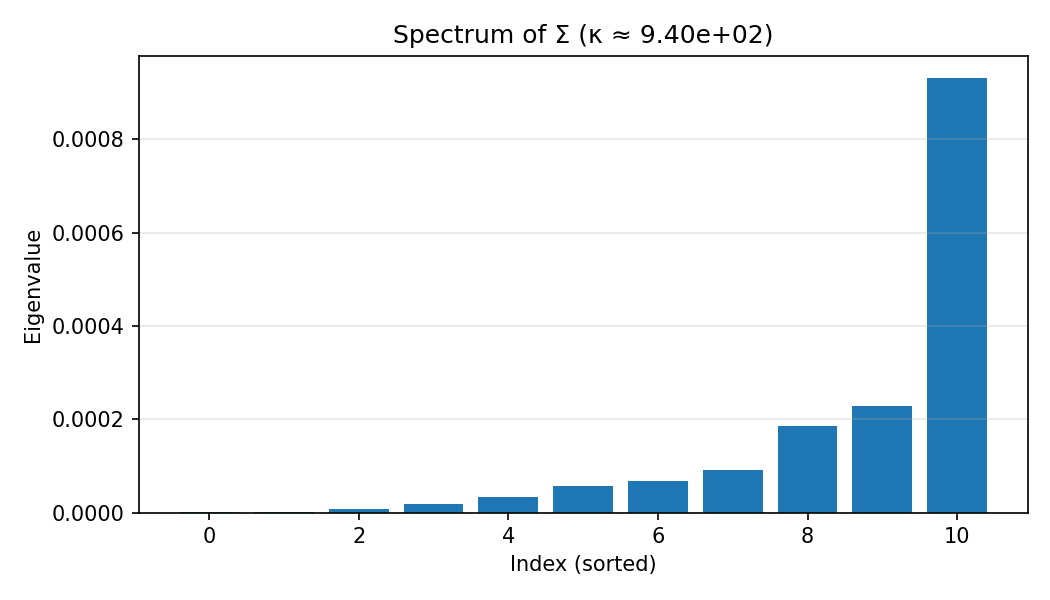
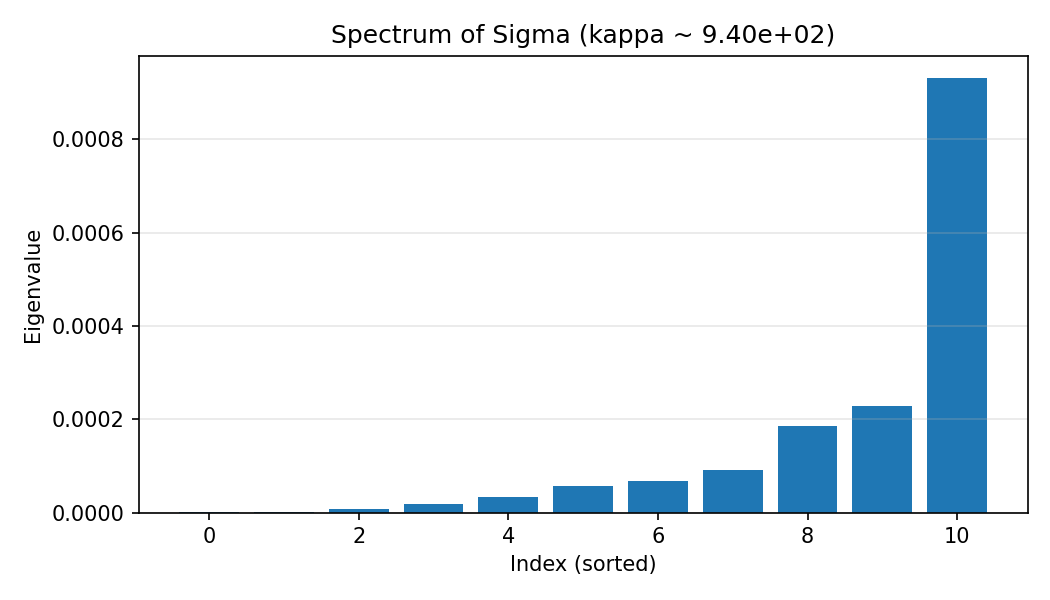
Improve application notebook and interpretation utilities.
Add interpret.py and summarize.py for asset and frontier tables. Rewrite
the notebook as a full Part 3 pipeline with inline figures. Refactor
plots to support display and file export.

Changed region(s): [[0.3048, 0.03, 0.7924, 0.09]]

diff --git a/python/src/portfolio_linalg/interpret.py b/python/src/portfolio_linalg/interpret.py
@@ -1,0 +1,104 @@
+"""Summaries for reports, CLI, and the application notebook."""
+
+from __future__ import annotations
+
+from dataclasses import dataclass
+
+import numpy as np
+import polars as pl
+
+from portfolio_linalg.config import ProjectConfig
+from portfolio_linalg.covariance import CovarianceResult
+from portfolio_linalg.frontier import compute_frontier, min_variance_portfolio
+
+
+@dataclass(frozen=True)
+class FrontierSummary:
+    mu_low: float
+    sigma_low: float
+    mu_high: float
+    sigma_high: float
+    best_mu: float
+    best_sigma: float
+    best_sharpe: float
+    high_return_weights: pl.DataFrame
+
+
+def asset_summary_table(cov: CovarianceResult) -> pl.DataFrame:
+    vol = np.sqrt(np.diag(cov.sigma))
+    sharpe = np.where(vol > 0, cov.mu / vol, np.nan)
+    return (
+        pl.DataFrame(
+            {
+                "ticker": cov.tickers,
+                "mu_daily": cov.mu,
+                "sigma_daily": vol,
+                "mu_over_sigma": sharpe,
+            }
+        )
+        .sort("mu_over_sigma", descending=True)
+    )
+
+
+def min_variance_weights_table(
+    cov: CovarianceResult, cfg: ProjectConfig, *, min_weight: float = 0.001
+) -> pl.DataFrame:
+    mvp = min_variance_portfolio(cov, cfg)
+    rows = [
+        {"ticker": t, "weight": float(w)}
+        for t, w in zip(cov.tickers, mvp["weights"], strict=True)
+        if w >= min_weight
+    ]
+    return pl.DataFrame(rows).sort("weight", descending=True)
+
+
+def frontier_summary_table(cov: CovarianceResult, frontier: pl.DataFrame) -> FrontierSummary:
+    pts = frontier.select(["mu", "sigma", "r_min_target"]).unique().sort("mu")
+    lo, hi = pts.row(0, named=True), pts.row(-1, named=True)
+    best = pts.with_columns((pl.col("mu") / pl.col("sigma")).alias("sh")).sort(
+        "sh", descending=True
+    ).row(0, named=True)
+    r_hi = hi["r_min_target"]
+    w_hi = (
+        frontier.filter(pl.col("r_min_target") == r_hi)
+        .select(["ticker", "weight"])
+        .filter(pl.col("weight") > 0.001)
+        .sort("weight", descending=True)
+    )
+    return FrontierSummary(
+        mu_low=float(lo["mu"]),
+        sigma_low=float(lo["sigma"]),
+        mu_high=float(hi["mu"]),
+        sigma_high=float(hi["sigma"]),
+        best_mu=float(best["mu"]),
+        best_sigma=float(best["sigma"]),
+        best_sharpe=float(best["sh"]),
+        high_return_weights=w_hi,
+    )
+
+
+def _print_df(df: pl.DataFrame) -> None:
+    """ASCII-safe table for Windows consoles."""
+    for row in df.iter_rows(named=True):
+        parts = "  ".join(
+            f"{k}={row[k]!r}" if isinstance(row[k], str) else f"{k}={row[k]:.6g}"
+            for k in df.columns
+        )
+        print(f"  {parts}")
+
+
+def print_summary(cov: CovarianceResult, cfg: ProjectConfig, frontier: pl.DataFrame) -> None:
+    """CLI-friendly text summary."""
+    print("=== Single assets (daily) ===")
+    _print_df(asset_summary_table(cov))
+    print("\n=== Min-variance portfolio ===")
+    mvp = min_variance_portfolio(cov, cfg)
+    print(f"mu={mvp['mu']:.6f}  sigma={mvp['sigma']:.6f}")
+    _print_df(min_variance_weights_table(cov, cfg))
+    fs = frontier_summary_table(cov, frontier)
+    print("\n=== Frontier (daily) ===")
+    print(f"  low:  mu={fs.mu_low:.6f}  sigma={fs.sigma_low:.6f}")
+    print(f"  high: mu={fs.mu_high:.6f}  sigma={fs.sigma_high:.6f}")
+    print(f"  best mu/sigma (rf=0): {fs.best_sharpe:.2f} at mu={fs.best_mu:.6f}")
+    print("\n  weights at high-return end:")
+    _print_df(fs.high_return_weights)

diff --git a/python/src/portfolio_linalg/plots.py b/python/src/portfolio_linalg/plots.py
@@ -5,6 +5,7 @@ from __future__ import annotations
 from pathlib import Path
 
 import matplotlib.pyplot as plt
+from matplotlib.figure import Figure
 import numpy as np
 import polars as pl
 
@@ -15,39 +16,30 @@ def _ensure_dir(path: Path) -> None:
     path.mkdir(parents=True, exist_ok=True)
 
 
-def plot_efficient_frontier(frontier: pl.DataFrame, out: Path) -> Path:
-    _ensure_dir(out.parent)
+def figure_efficient_frontier(frontier: pl.DataFrame) -> Figure:
     pts = frontier.select(["mu", "sigma"]).unique().sort("sigma")
     fig, ax = plt.subplots(figsize=(7, 5))
     ax.plot(pts["sigma"].to_list(), pts["mu"].to_list(), "o-", linewidth=1.5, markersize=4)
-    ax.set_xlabel("Portfolio volatility (σ)")
-    ax.set_ylabel("Expected return (μ)")
-    ax.set_title("Mean–variance efficient frontier (long-only)")
+    ax.set_xlabel("Portfolio volatility (sigma)")
+    ax.set_ylabel("Expected return (mu)")
+    ax.set_title("Mean-variance efficient frontier (long-only)")
     ax.grid(True, alpha=0.3)
     fig.tight_layout()
-    p = out / "efficient_frontier.png"
-    fig.savefig(p, dpi=150)
-    plt.close(fig)
-    return p
+    return fig
 
 
-def plot_eigenvalues(cov: CovarianceResult, out: Path) -> Path:
-    _ensure_dir(out.parent)
+def figure_eigenvalues(cov: CovarianceResult) -> Figure:
     fig, ax = plt.subplots(figsize=(7, 4))
     ax.bar(range(len(cov.eigenvalues)), cov.eigenvalues)
     ax.set_xlabel("Index (sorted)")
     ax.set_ylabel("Eigenvalue")
-    ax.set_title(f"Spectrum of Σ (κ ≈ {cov.condition_number:.2e})")
+    ax.set_title(f"Spectrum of Sigma (kappa ~ {cov.condition_number:.2e})")
     ax.grid(True, axis="y", alpha=0.3)
     fig.tight_layout()
-    p = out / "eigenvalues.png"
-    fig.savefig(p, dpi=150)
-    plt.close(fig)
-    return p
+    return fig
 
 
-def plot_correlation_heatmap(cov: CovarianceResult, out: Path) -> Path:
-    _ensure_dir(out.parent)
+def figure_correlation_heatmap(cov: CovarianceResult) -> Figure:
     corr = correlation_from_sigma(cov.sigma)
     fig, ax = plt.subplots(figsize=(8, 7))
     im = ax.imshow(corr, vmin=-1, vmax=1, cmap="RdBu_r")
@@ -58,14 +50,10 @@ def plot_correlation_heatmap(cov: CovarianceResult, out: Path) -> Path:
     ax.set_title("Return correlation matrix")
     fig.colorbar(im, ax=ax, fraction=0.046)
     fig.tight_layout()
-    p = out / "correlation_heatmap.png"
-    fig.savefig(p, dpi=150)
-    plt.close(fig)
-    return p
+    return fig
 
 
-def plot_weights_vs_return(frontier: pl.DataFrame, out: Path) -> Path:
-    _ensure_dir(out.parent)
+def figure_weights_vs_return(frontier: pl.DataFrame) -> Figure:
     wide = frontier.pivot(on="ticker", index="r_min_target", values="weight").sort(
         "r_min_target"
     )
@@ -76,14 +64,44 @@ def plot_weights_vs_return(frontier: pl.DataFrame, out: Path) -> Path:
         ax.plot(x, wide[t].to_list(), label=t, linewidth=1)
     ax.set_xlabel("Target return r_min")
     ax.set_ylabel("Weight")
-    ax.set_title("Frontier weights vs expected return")
+    ax.set_title("Frontier weights vs target return")
     ax.legend(bbox_to_anchor=(1.02, 1), loc="upper left", fontsize=7)
     ax.grid(True, alpha=0.3)
     fig.tight_layout()
-    p = out / "weights_vs_return.png"
-    fig.savefig(p, dpi=150)
+    return fig
+
+
+def all_figures(cov: CovarianceResult, frontier: pl.DataFrame) -> list[Figure]:
+    """Build figures for inline display (caller should not close before showing)."""
+    return [
+        figure_efficient_frontier(frontier),
+        figure_eigenvalues(cov),
+        figure_correlation_heatmap(cov),
+        figure_weights_vs_return(frontier),
+    ]
+
+
+def _save_figure(fig: Figure, path: Path) -> Path:
+    _ensure_dir(path.parent)
+    fig.savefig(path, dpi=150)
     plt.close(fig)
-    return p
+    return path
+
+
+def plot_efficient_frontier(frontier: pl.DataFrame, out: Path) -> Path:
+    return _save_figure(figure_efficient_frontier(frontier), out / "efficient_frontier.png")
+
+
+def plot_eigenvalues(cov: CovarianceResult, out: Path) -> Path:
+    return _save_figure(figure_eigenvalues(cov), out / "eigenvalues.png")
+
+
+def plot_correlation_heatmap(cov: CovarianceResult, out: Path) -> Path:
+    return _save_figure(figure_correlation_heatmap(cov), out / "correlation_heatmap.png")
+
+
+def plot_weights_vs_return(frontier: pl.DataFrame, out: Path) -> Path:
+    return _save_figure(figure_weights_vs_return(frontier), out / "weights_vs_return.png")
 
 
 def generate_all(
@@ -92,10 +110,9 @@ def generate_all(
     figures_dir: Path,
 ) -> list[Path]:
     figures_dir.mkdir(parents=True, exist_ok=True)
-    paths = [
+    return [
         plot_efficient_frontier(frontier, figures_dir),
         plot_eigenvalues(cov, figures_dir),
         plot_correlation_heatmap(cov, figures_dir),
         plot_weights_vs_return(frontier, figures_dir),
     ]
-    return paths

diff --git a/scripts/summarize.py b/scripts/summarize.py
@@ -1,0 +1,22 @@
+#!/usr/bin/env python3
+"""Print interpretation stats from cached returns."""
+
+from __future__ import annotations
+
+import sys
+from pathlib import Path
+
+REPO = Path(__file__).resolve().parents[1]
+sys.path.insert(0, str(REPO / "python" / "src"))
+
+from portfolio_linalg.config import load_config
+from portfolio_linalg.covariance import build_covariance
+from portfolio_linalg.fetch_data import load_returns
+from portfolio_linalg.frontier import compute_frontier
+from portfolio_linalg.interpret import print_summary
+
+cfg = load_config()
+returns = load_returns(cfg)
+cov = build_covariance(returns)
+frontier = compute_frontier(cov, cfg)
+print_summary(cov, cfg, frontier)

diff --git a/README.md b/README.md
@@ -29,6 +29,8 @@ Outputs:
 - `python/data/returns.parquet`, `returns.csv`, `metadata.json`
 - `python/figures/*.png`
 
+**Application notebook (Part 3 narrative):** open `python/notebooks/application.ipynb` — loads or fetches data, tables, CVXPY frontier, inline figures. Quick stats: `uv run python scripts/summarize.py`.
+
 **Data:** daily closes via `httpx` from the Yahoo Finance chart API. Citation in `python/data/metadata.json`.
 
 ## Lean